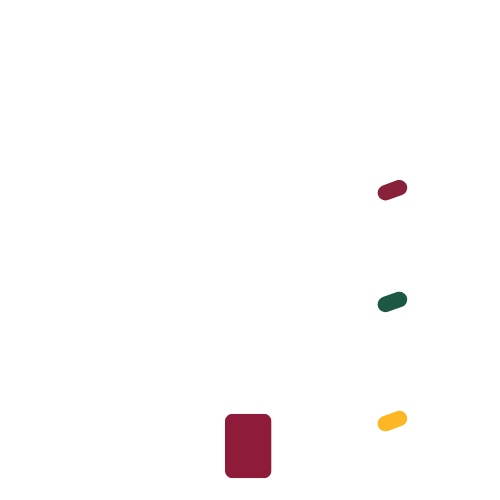
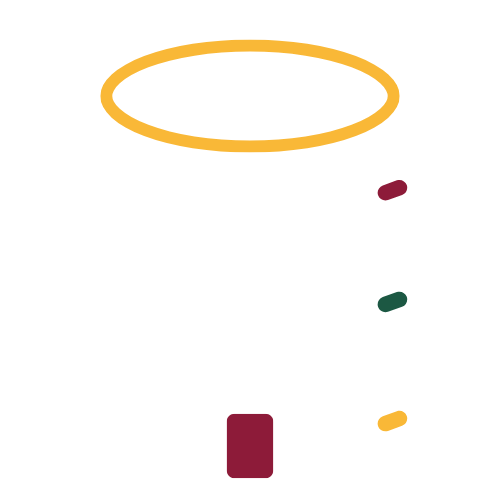
Some fixes

Changed region(s): [[0.18, 0.06, 0.81, 0.33], [0.54, 0.84, 0.57, 0.96], [0.45, 0.84, 0.48, 0.96]]

diff --git a/src/pages/Login.tsx b/src/pages/Login.tsx
@@ -5,6 +5,7 @@ import { useNavigate } from 'react-router-dom'
 import LoginBG from '../assets/LoginBG.png'
 import BIMS from '../assets/W-BIMS.png'
 import Google from '../assets/Google.png'
+import PrivacyNotice from '../assets/PrivacyNotice.png'
 
 export default function Login() {
   const navigate = useNavigate()
@@ -23,40 +24,64 @@ export default function Login() {
 
   return (
     <div
-      className="font-poppins flex justify-center items-center h-screen bg-black bg-cover bg-center"
+      className="relative font-poppins flex justify-center items-center h-screen bg-black bg-cover bg-center gap-20"
       style={{ backgroundImage: `url(${LoginBG})` }}
     >
+      {/* Dark overlay for readability */}
+      <div className="absolute inset-0 bg-black/20"></div>
+      
+      {/* Dark overlay for readability */}
+      <a
+        href="https://privacy.up.edu.ph/"
+        target="_blank"
+        rel="noopener noreferrer"
+        className="items-center gap-2 text-xs text-white/70"
+      >
+        <img
+          src={PrivacyNotice}
+          alt="Privacy Notice"
+          className="w-auto h-100 opacity-80"
+        />
+      </a>
+
+      {/* Login Card */}
       <form
         onSubmit={handleLogin}
-        className="flex items-center justify-center bg-upred/70 p-8 rounded-xl shadow-md w-full max-w-xl border-upyellow/70 border-4 gap-10"
+        className="relative z-10 flex items-center justify-center backdrop-blur-sm bg-upred/60 p-10 rounded-2xl shadow-xl w-[48rem] border-10 border-upyellow/50 gap-10"
       >
         {/* Logo Section */}
         <div>
           <img
             src={BIMS}
             alt="BIMS Logo"
-            className="m-auto w-40 mb-3"
+            className="m-auto w-72 mb-3 hover:scale-105 transition"
           />
         </div>
 
         {/* Login Section */}
-        <div className="flex flex-col justify-center h-auto w-64">
-          <div className="text-center text-white">UP MANILA</div>
-          <div className="text-center text-4xl font-semibold text-white mb-4">BIMS</div>
+        <div className="flex flex-col justify-center h-auto w-90">
+          <div className="text-center text-2xl font-light text-white">UP Manila</div>
+          <div className="text-center text-6xl font-extrabold text-white tracking-wide mb-2">BIMS</div>
+          <div className="text-center text-base italic text-white/80 mb-4">Building Inventory Management System</div>
 
           <button
             type="submit"
-            className="group w-full h-auto flex items-center justify-center gap-2 p-2
-              text-black/50 bg-white/80 rounded-xl
-              transition duration-300 hover:bg-upgreen hover:text-white/70 cursor-pointer"
+            className="group flex items-center justify-center gap-3 py-2 px-4
+              text-black/80 bg-white rounded-full shadow-md
+              transition duration-300 hover:scale-105 hover:shadow-lg hover:bg-upgreen hover:text-white/80 cursor-pointer mb-1"
           >
             <img
               src={Google}
               alt="Google Logo"
-              className="w-8 opacity-50 transition duration-300 delay-100 group-hover:invert"
+              className="w-6 opacity-70 transition duration-300 group-hover:invert"
             />
-            <div>Login with UP Mail</div>
+            <span className="font-medium">Login with UP Mail</span>
           </button>
+
+          {/* Copyright */}
+          <p className="text-xs text-white/70 mt-4 text-center">
+            © 2026 UP Manila Building Inventory Management System
+          </p>
         </div>
       </form>
     </div>

diff --git a/src/layouts/DashboardLayout.tsx b/src/layouts/DashboardLayout.tsx
@@ -1,0 +1,55 @@
+// src/layouts/DashboardLayout.tsx
+
+import { useNavigate,Link } from "react-router-dom"
+import { Info, LogOut, User } from "lucide-react"
+
+import BIMS from '../assets/W-BIMS.png'
+
+export default function DashboardLayout({ children }: { children: React.ReactNode }) {
+  
+    const navigate = useNavigate()
+
+    const handleLogout = () => {
+        localStorage.removeItem('loggedIn')
+        navigate('/')
+    }
+
+    return (
+    <div className="flex h-screen">
+        {/* Sidebar */}
+        <aside className="flex flex-col justify-between bg-upred w-16 py-4 text-white">
+            {/* Top Section */}
+            <div className="flex flex-col items-center gap-6">
+                {/* Logo */}
+                <Link to="/dashboard">
+                    <img
+                        src={BIMS}
+                        alt="BIMS Logo"
+                        className="m-auto w-10"
+                    />
+                </Link>
+                <div className="h-[1px] w-8 bg-white/40"></div>
+            </div>
+
+            {/* Bottom Section */}
+            <div className="flex flex-col items-center gap-6">
+                <Link to="/about">
+                    <Info className="w-6 h-6 hover:text-upyellow transition" />
+                </Link>
+                <div className="h-[1px] w-8 bg-white/40"></div>
+                <Link to="/profile">
+                    <User className="w-6 h-6 hover:text-upyellow transition" />
+                </Link>
+                <button onClick={handleLogout}>
+                    <LogOut className="w-6 h-6 hover:text-upyellow transition cursor-pointer" />
+                </button>
+            </div>
+        </aside>
+
+      {/* Main Content */}
+      <main className="flex-1 bg-gray-50 p-6 overflow-y-auto">
+        {children}
+      </main>
+    </div>
+  )
+}

diff --git a/src/pages/Dashboard.tsx b/src/pages/Dashboard.tsx
@@ -1,22 +1,11 @@
-import { useNavigate } from 'react-router-dom'
+// src/pages/Dashboard.tsx
+import DashboardLayout from "../layouts/DashboardLayout"
 
 export default function Dashboard() {
-  const navigate = useNavigate()
-
-  const handleLogout = () => {
-    localStorage.removeItem('loggedIn')
-    navigate('/')
-  }
-
   return (
-    <div className="p-4">
-      <h1 className="text-2xl font-bold">Dashboard</h1>
-      <button
-        onClick={handleLogout}
-        className="mt-4 px-4 py-2 bg-red-600 text-white rounded"
-      >
-        Logout
-      </button>
-    </div>
+    <DashboardLayout>
+      <h1 className="text-2xl font-bold mb-4">Welcome to the Dashboard, Cael!</h1>
+      <p>What would you like to do?</p>
+    </DashboardLayout>
   )
 }
